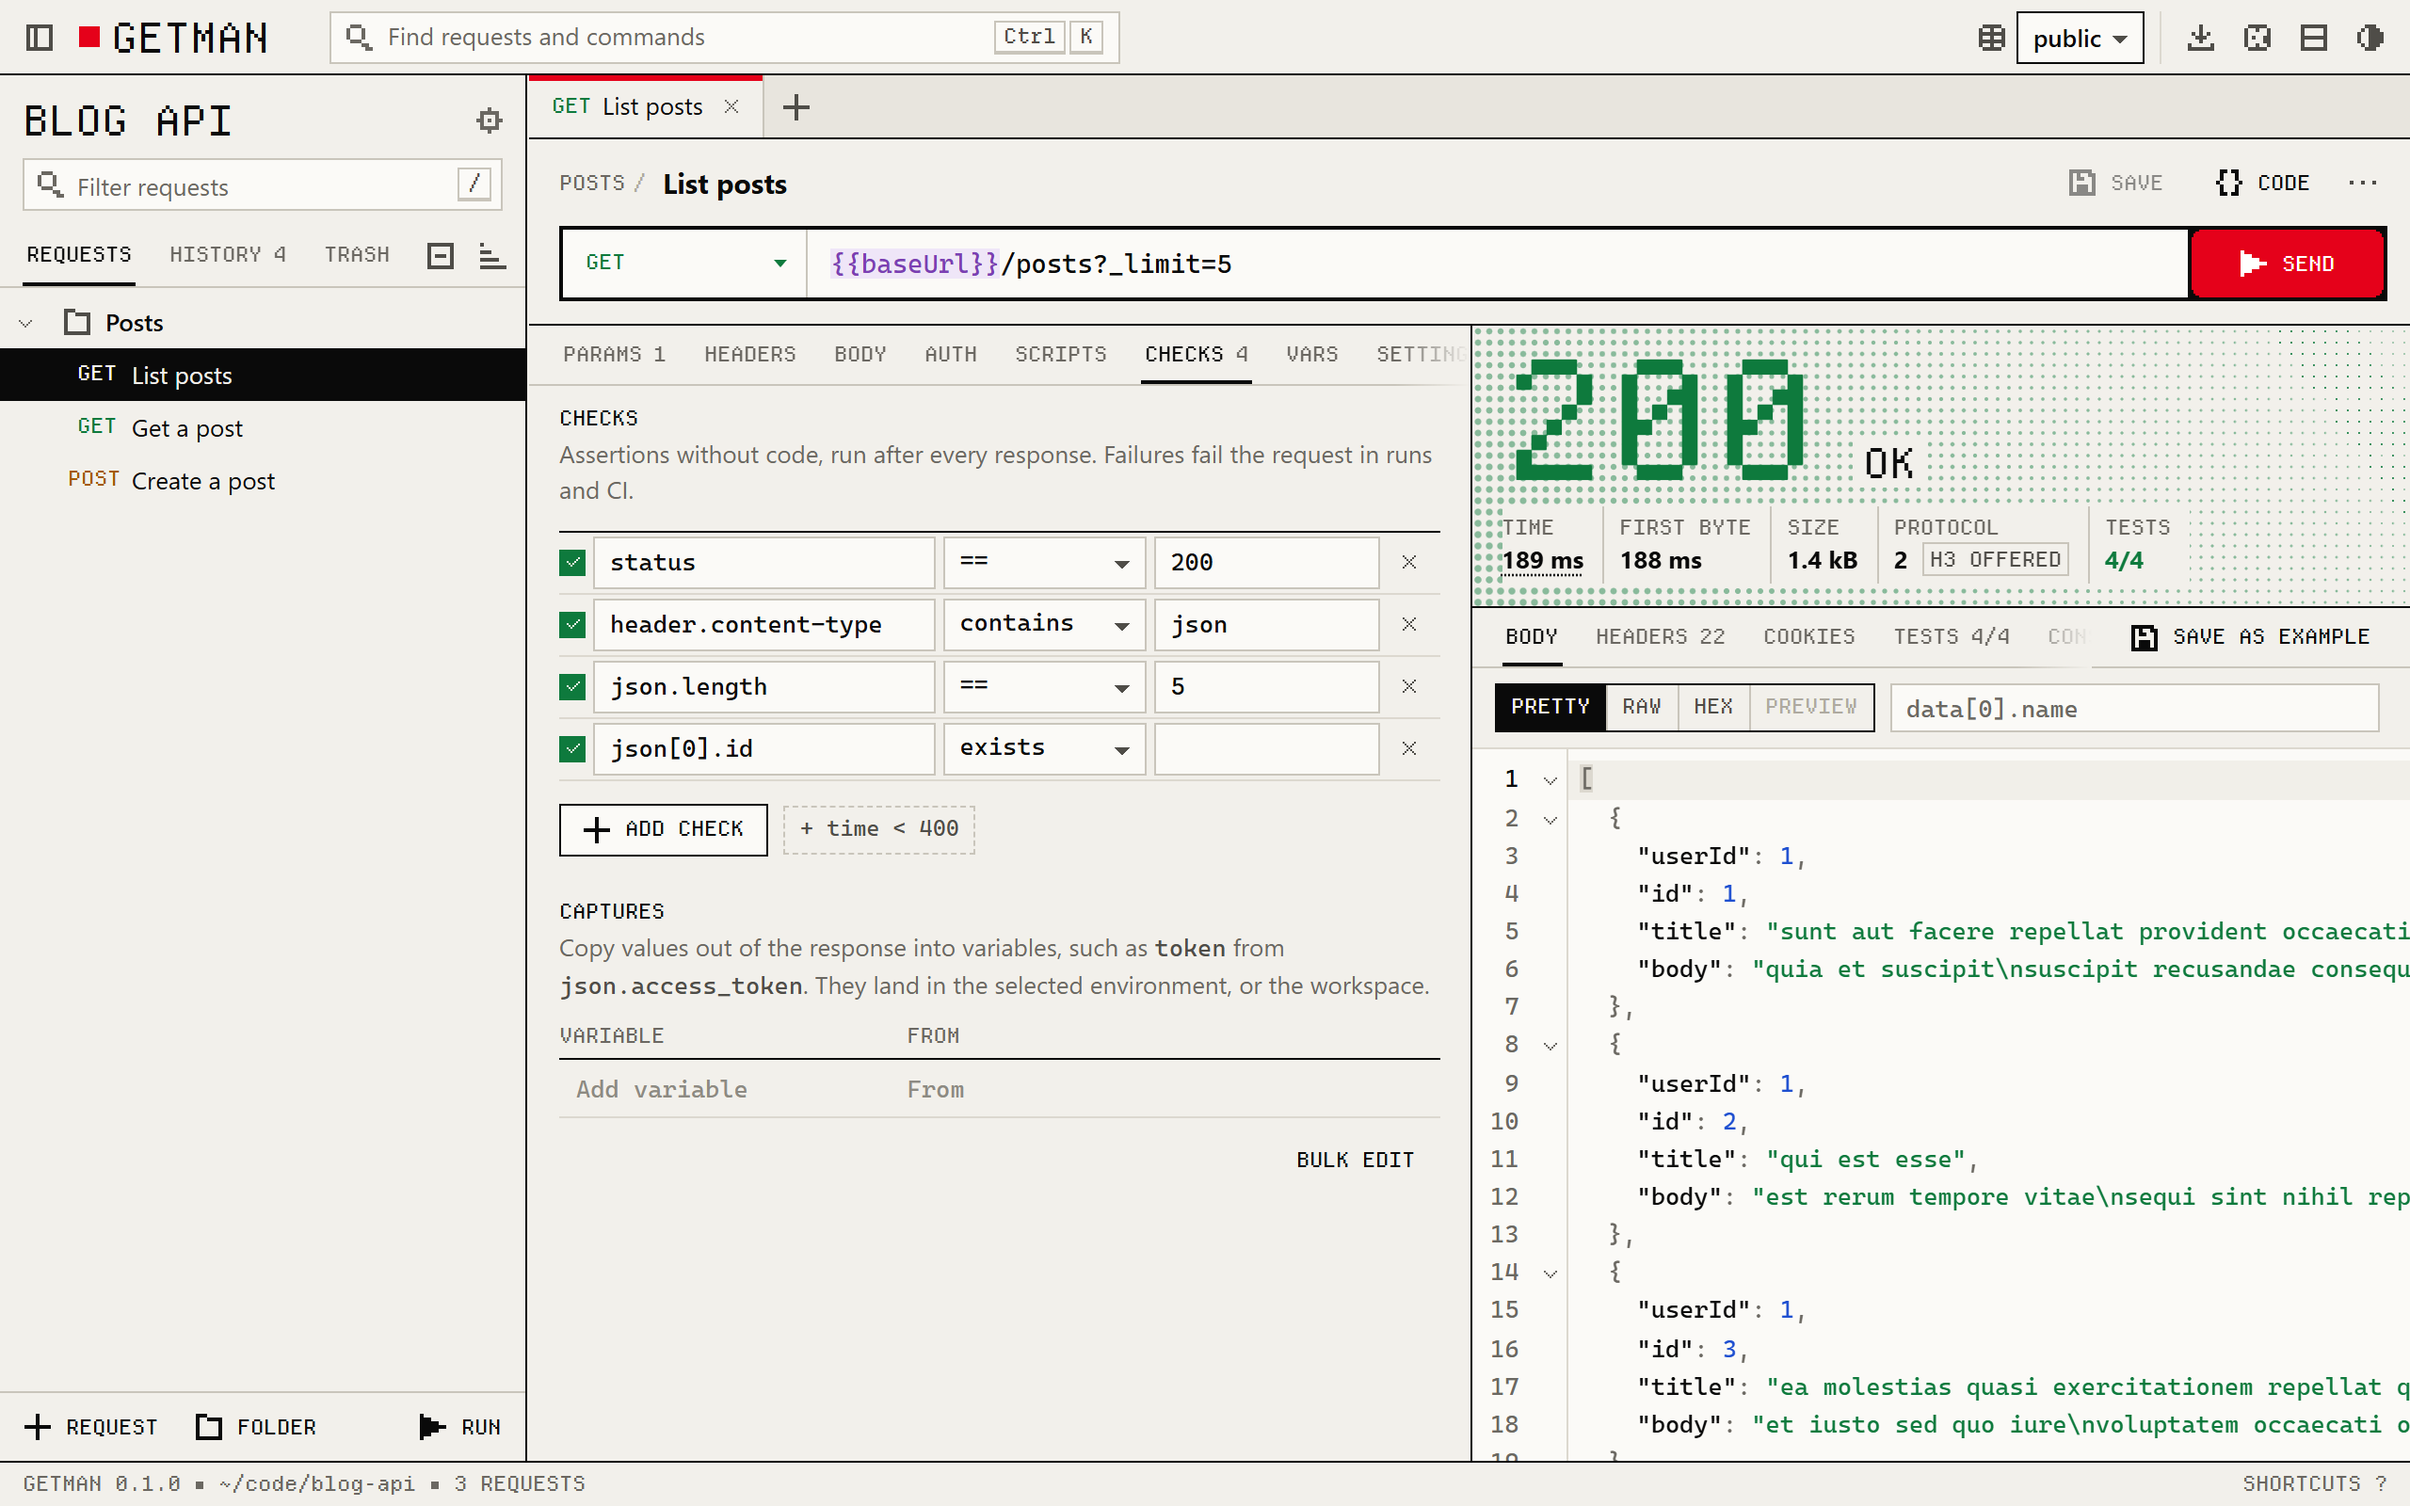
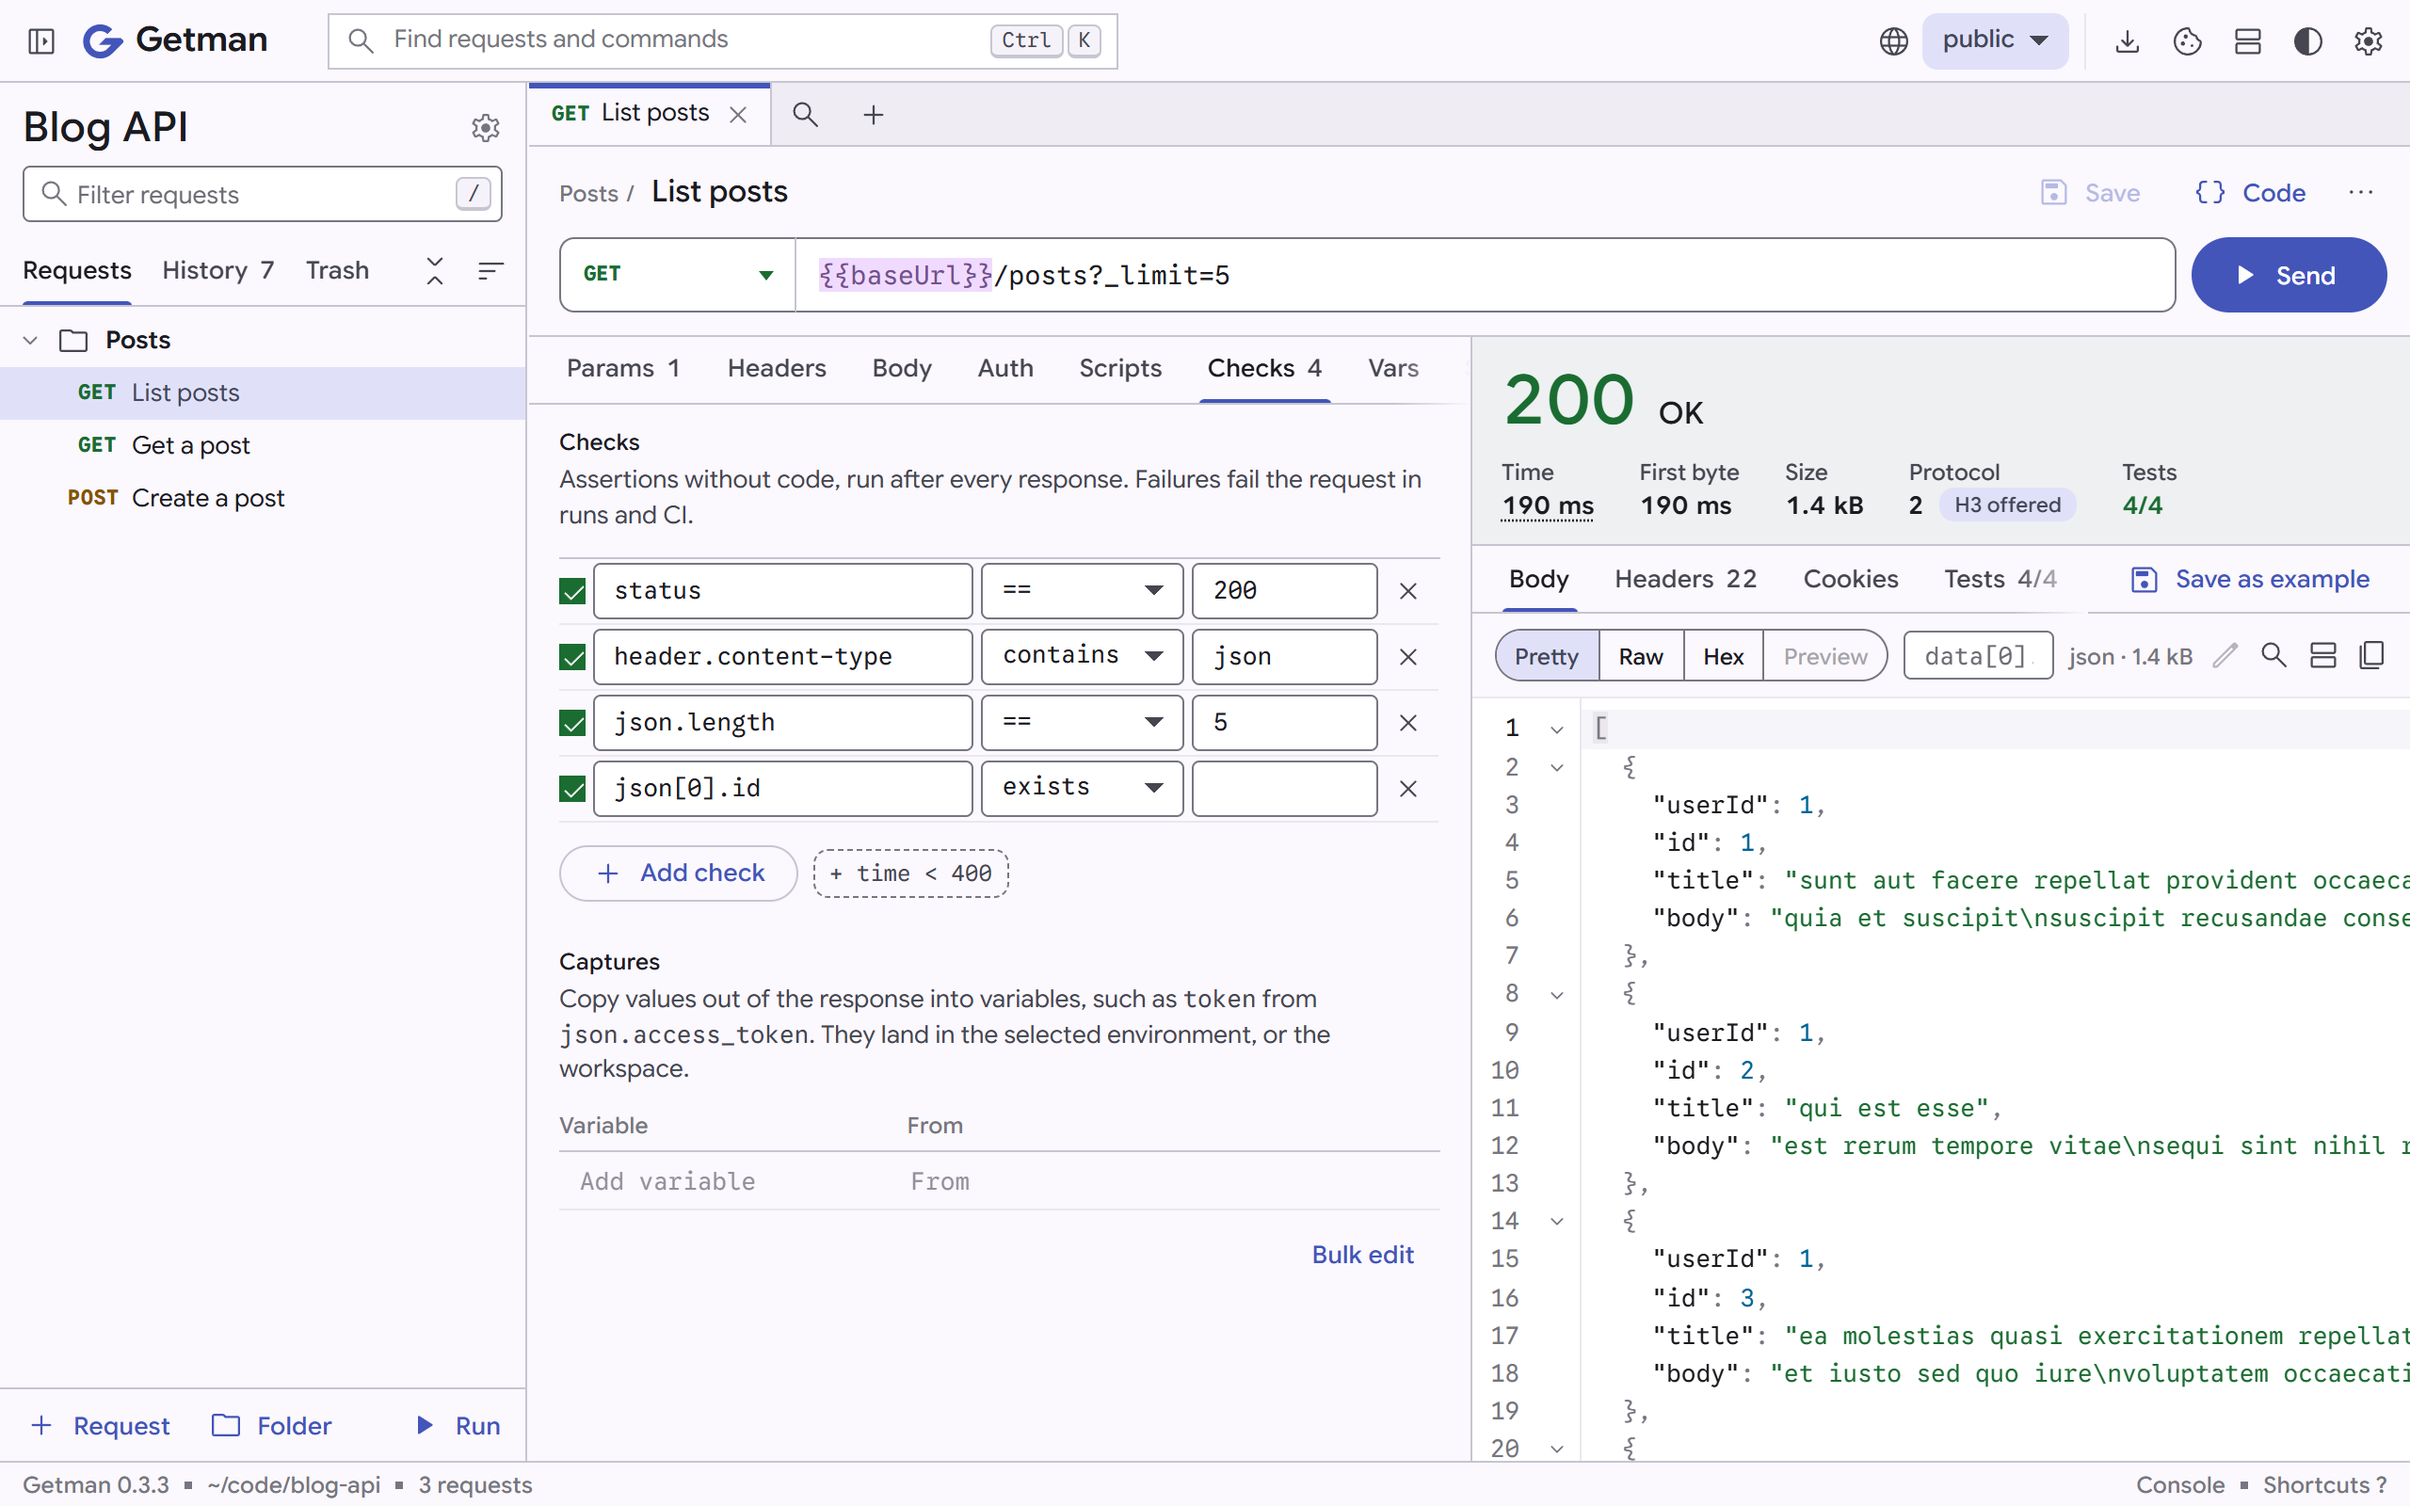
docs: retake the screenshots with the Material Design 3 UI
The README, the landing page and the og:image showed the bitmap design
and version 0.1.0. Captured the same way as before, now with
playwright-core: the example Blog API workspace with List posts sent
and its checks open, 1280x800 at 2x, light and dark, with the capture
recorded in each file. The alt texts describe the new response header.

diff --git a/README-ID.md b/README-ID.md
@@ -1,7 +1,7 @@
 <p align="center">
   <picture>
     <source media="(prefers-color-scheme: dark)" srcset="docs/images/getman-dark.png">
-    <img src="docs/images/getman-light.png" width="900" alt="Getman menampilkan check sebuah request di samping response-nya: angka 200 besar di atas latar halftone, dengan waktu, ukuran, dan 4 dari 4 tes lulus">
+    <img src="docs/images/getman-light.png" width="900" alt="Getman menampilkan empat check sebuah request di samping response-nya: 200 OK berwarna hijau, dengan waktu, ukuran, dan 4 dari 4 tes lulus">
   </picture>
 </p>
 

diff --git a/README.md b/README.md
@@ -1,7 +1,7 @@
 <p align="center">
   <picture>
     <source media="(prefers-color-scheme: dark)" srcset="docs/images/getman-dark.png">
-    <img src="docs/images/getman-light.png" width="900" alt="Getman showing a request's checks beside its response: a large 200 on a halftone field, with time, size and 4 of 4 tests passed">
+    <img src="docs/images/getman-light.png" width="900" alt="Getman showing a request's four checks beside its response: 200 OK in green, with the time, size and 4 of 4 tests passed">
   </picture>
 </p>
 
